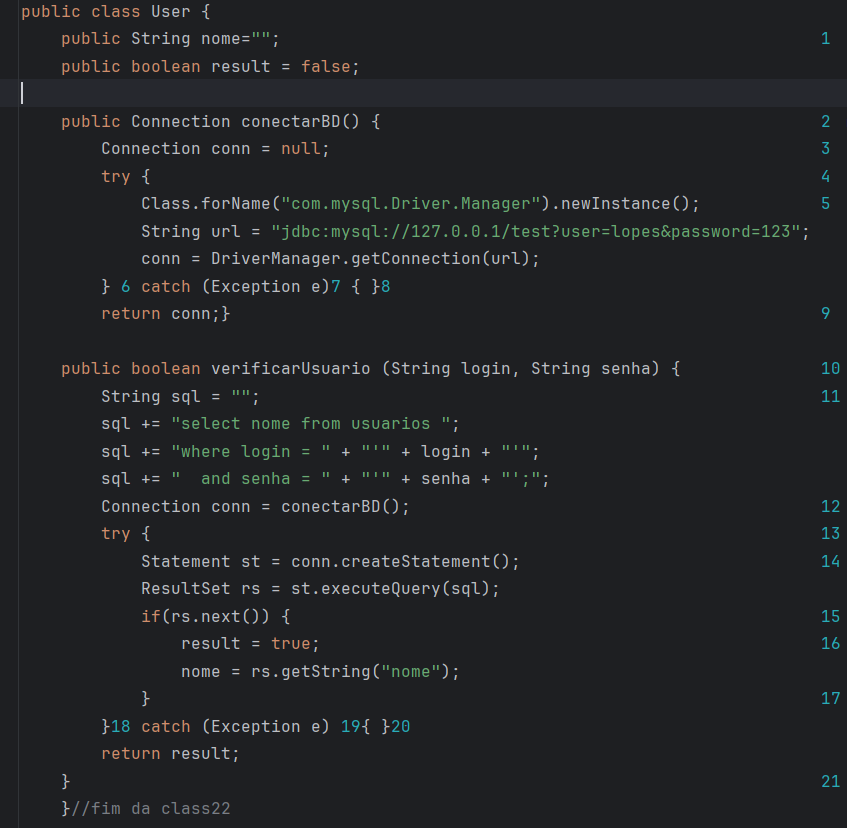
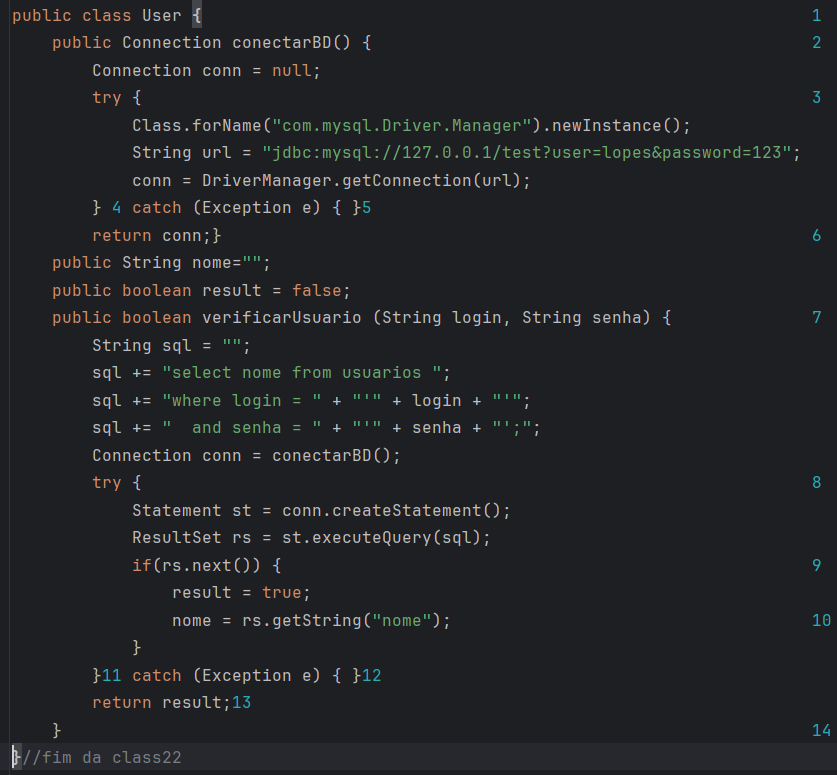
Updates img

diff --git a/src/User.java b/src/User.java
@@ -4,36 +4,32 @@ import java.sql.DriverManager;
 import java.sql.ResultSet;
 import java.sql.Statement;
 
-public class User {
-	public String nome="";														1
-	public boolean result = false;
-
+public class User {																1
 	public Connection conectarBD() {											2
-		Connection conn = null;													3
-		try {																	4
-			Class.forName("com.mysql.Driver.Manager").newInstance();			5
+		Connection conn = null;
+		try {																	3
+			Class.forName("com.mysql.Driver.Manager").newInstance();
 			String url = "jdbc:mysql://127.0.0.1/test?user=lopes&password=123";
 			conn = DriverManager.getConnection(url);
-		} 6 catch (Exception e)7 { }8
-		return conn;}															9
-
-	public boolean verificarUsuario (String login, String senha) {				10
-		String sql = "";														11
+		} 4 catch (Exception e) { }5
+		return conn;}															6
+	public String nome="";
+	public boolean result = false;
+	public boolean verificarUsuario (String login, String senha) {				7
+		String sql = "";
 		sql += "select nome from usuarios ";
 		sql += "where login = " + "'" + login + "'";
 		sql += "  and senha = " + "'" + senha + "';";
-		Connection conn = conectarBD();											12
-		try {																	13
-			Statement st = conn.createStatement();								14
+		Connection conn = conectarBD();
+		try {																	8
+			Statement st = conn.createStatement();
 			ResultSet rs = st.executeQuery(sql);
-			if(rs.next()) {														15
-				result = true;													16
-				nome = rs.getString("nome");
-			}																	17
-		}18	catch (Exception e) 19{ }20
-		return result;
-	}																			21
-
-
-	}//fim da class22
+			if(rs.next()) {														9
+				result = true;
+				nome = rs.getString("nome");									10
+			}
+		}11	catch (Exception e) { }12
+		return result;13
+	}																			14
+}//fim da class22
 
